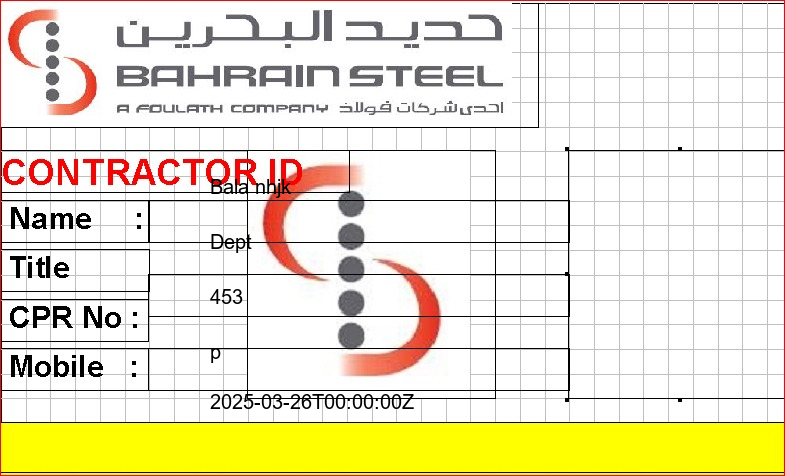
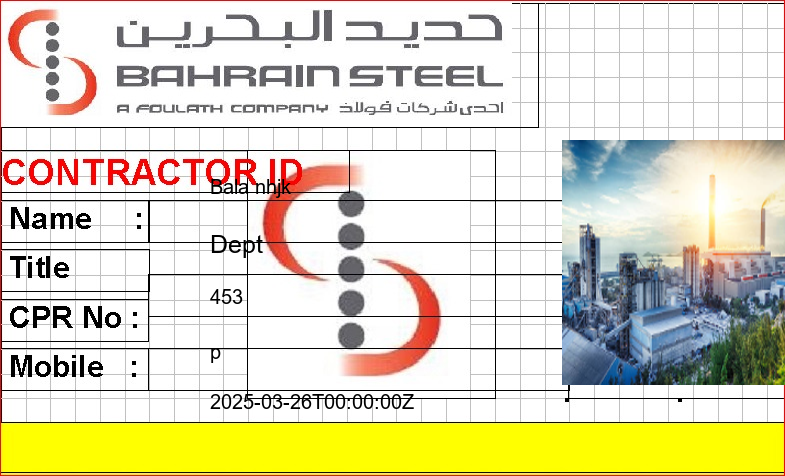
final comit for app1

Changed region(s): [[0.7032, 0.2941, 1.0, 0.8235], [0.2446, 0.5, 0.3363, 0.5294]]

diff --git a/app1/views.py b/app1/views.py
@@ -203,7 +203,6 @@ TEMPLATE_PATHS = {
 # Ensure the ID card folder exists
 os.makedirs(ID_CARD_SAVE_PATH, exist_ok=True)
 
-
 def fetch_employee_data(employee_id):
     """ Fetch employee details from API """
     payload = {
@@ -221,19 +220,13 @@ def fetch_employee_data(employee_id):
             headers=headers,
             json=payload
         )
-
-        print(f"API Response: {response.status_code}, {response.text}")  # Debugging
-
         if response.status_code == 200:
             data = response.json()
             employee = next((emp for emp in data.get('employees', []) if emp['idNumber'] == employee_id), None)
-            print(f"Employee Found: {employee}")  # Debugging
             return employee
     except requests.RequestException as e:
         print(f"API request failed: {e}")
-
     return None
-
 
 @csrf_exempt
 def generate_selected_id_cards(request):
@@ -245,64 +238,67 @@ def generate_selected_id_cards(request):
 
             if not employee_ids:
                 return JsonResponse({'message': 'No employees selected.'}, status=400)
-
+            
             if card_type not in TEMPLATE_PATHS:
                 return JsonResponse({'message': f"Invalid card type: {card_type}"}, status=400)
-
+            
             # Fetch the ID card template
             template_url = TEMPLATE_PATHS[card_type]
             response = requests.get(template_url)
             if response.status_code != 200:
-                print("❌ Error fetching template image:", response.status_code, response.text)
                 return JsonResponse({'message': 'Template image could not be fetched.'}, status=500)
-
+            
             template_image = Image.open(BytesIO(response.content))
-
             generated_files = []
-
-            # ✅ Check if the font file exists
-            print("Font path:", FONT_PATH)
-            print("Font file exists:", os.path.exists(FONT_PATH))
-
-            # Load Font (Fallback if missing)
+            
+            # Load Font
             try:
-                font = ImageFont.truetype(FONT_PATH, 30)
+                font_large = ImageFont.truetype(FONT_PATH, 20)  # Name
+                font_medium = ImageFont.truetype(FONT_PATH, 25)  # Department
+                font_small = ImageFont.truetype(FONT_PATH, 20)  # Other details
             except OSError:
-                print("⚠ Font not found, using default font.")
-                font = ImageFont.load_default()
+                font_large = font_medium = font_small = ImageFont.load_default()
 
             for employee_id in employee_ids:
                 employee = fetch_employee_data(employee_id)
                 if not employee:
-                    print(f"❌ Employee {employee_id} not found, skipping...")
                     continue
 
                 id_card = template_image.copy()
                 draw = ImageDraw.Draw(id_card)
 
+                # Fetch and add employee image
+                employee_image_url = employee.get('employeeImage', None)
+                if employee_image_url:
+                    try:
+                        img_response = requests.get(employee_image_url)
+                        if img_response.status_code == 200:
+                            emp_img = Image.open(BytesIO(img_response.content))
+                            emp_img = emp_img.resize((245, 245))  # Resize image
+                            id_card.paste(emp_img, (562, 140))  # Position employee image
+                    except Exception as e:
+                        print(f"Error loading employee image: {e}")
+
                 # Draw text on the card
-                draw.text((210, 175), f"{employee.get('firstname', 'N/A')} {employee.get('lastname', '')}", fill="black", font=font)
-                draw.text((210, 230), f"{employee.get('department', 'N/A')}", fill="black", font=font)
-                draw.text((210, 285), f"{employee.get('idNumber', 'N/A')}", fill="black", font=font)
-                draw.text((210, 340), f"{employee.get('nationalId', 'N/A')}", fill="black", font=font)
-                draw.text((210, 390), f"{employee.get('endDate', 'N/A')}", fill="black", font=font)
+                draw.text((210, 175), f"{employee.get('firstname', 'N/A')} {employee.get('lastname', '')}", fill="black", font=font_large)
+                draw.text((210, 230), f"{employee.get('department', 'N/A')}", fill="black", font=font_medium)
+                draw.text((210, 285), f"{employee.get('idNumber', 'N/A')}", fill="black", font=font_small)
+                draw.text((210, 340), f"{employee.get('nationalId', 'N/A')}", fill="black", font=font_small)
+                draw.text((210, 390), f"{employee.get('endDate', 'N/A')}", fill="black", font=font_small)
 
                 # Save the ID card
                 output_filename = f"{employee['idNumber']}_id_card.png"
                 output_path = os.path.join(ID_CARD_SAVE_PATH, output_filename)
-                os.makedirs(ID_CARD_SAVE_PATH, exist_ok=True)
                 id_card.save(output_path)
-
-                print(f"✅ ID Card saved at: {output_path}")
                 generated_files.append(output_filename)
 
             return JsonResponse({'message': 'ID cards generated successfully.', 'files': generated_files})
 
         except Exception as e:
-            print("❌ Error:", e)
             return JsonResponse({'message': 'An error occurred while generating ID cards.'}, status=500)
 
     return JsonResponse({'message': 'Invalid request method.'}, status=405)
+
 
 
 
